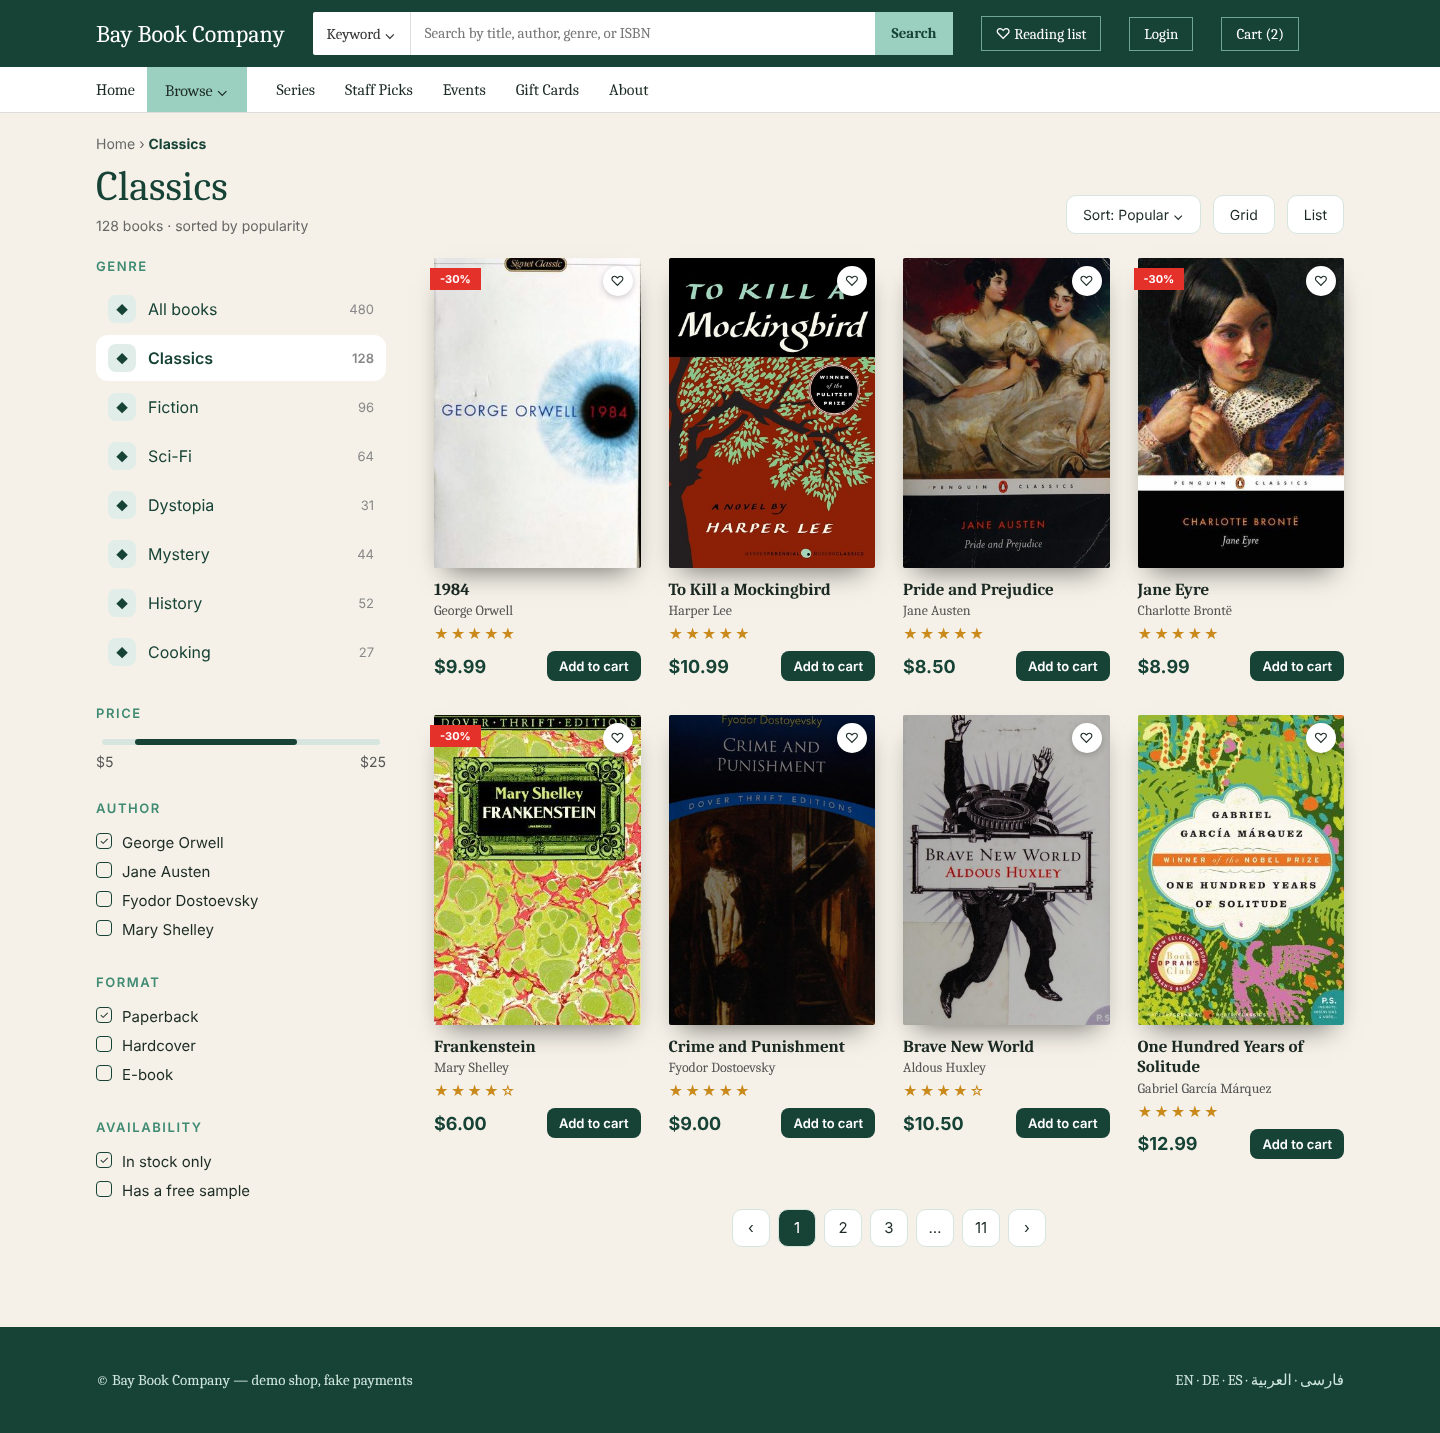
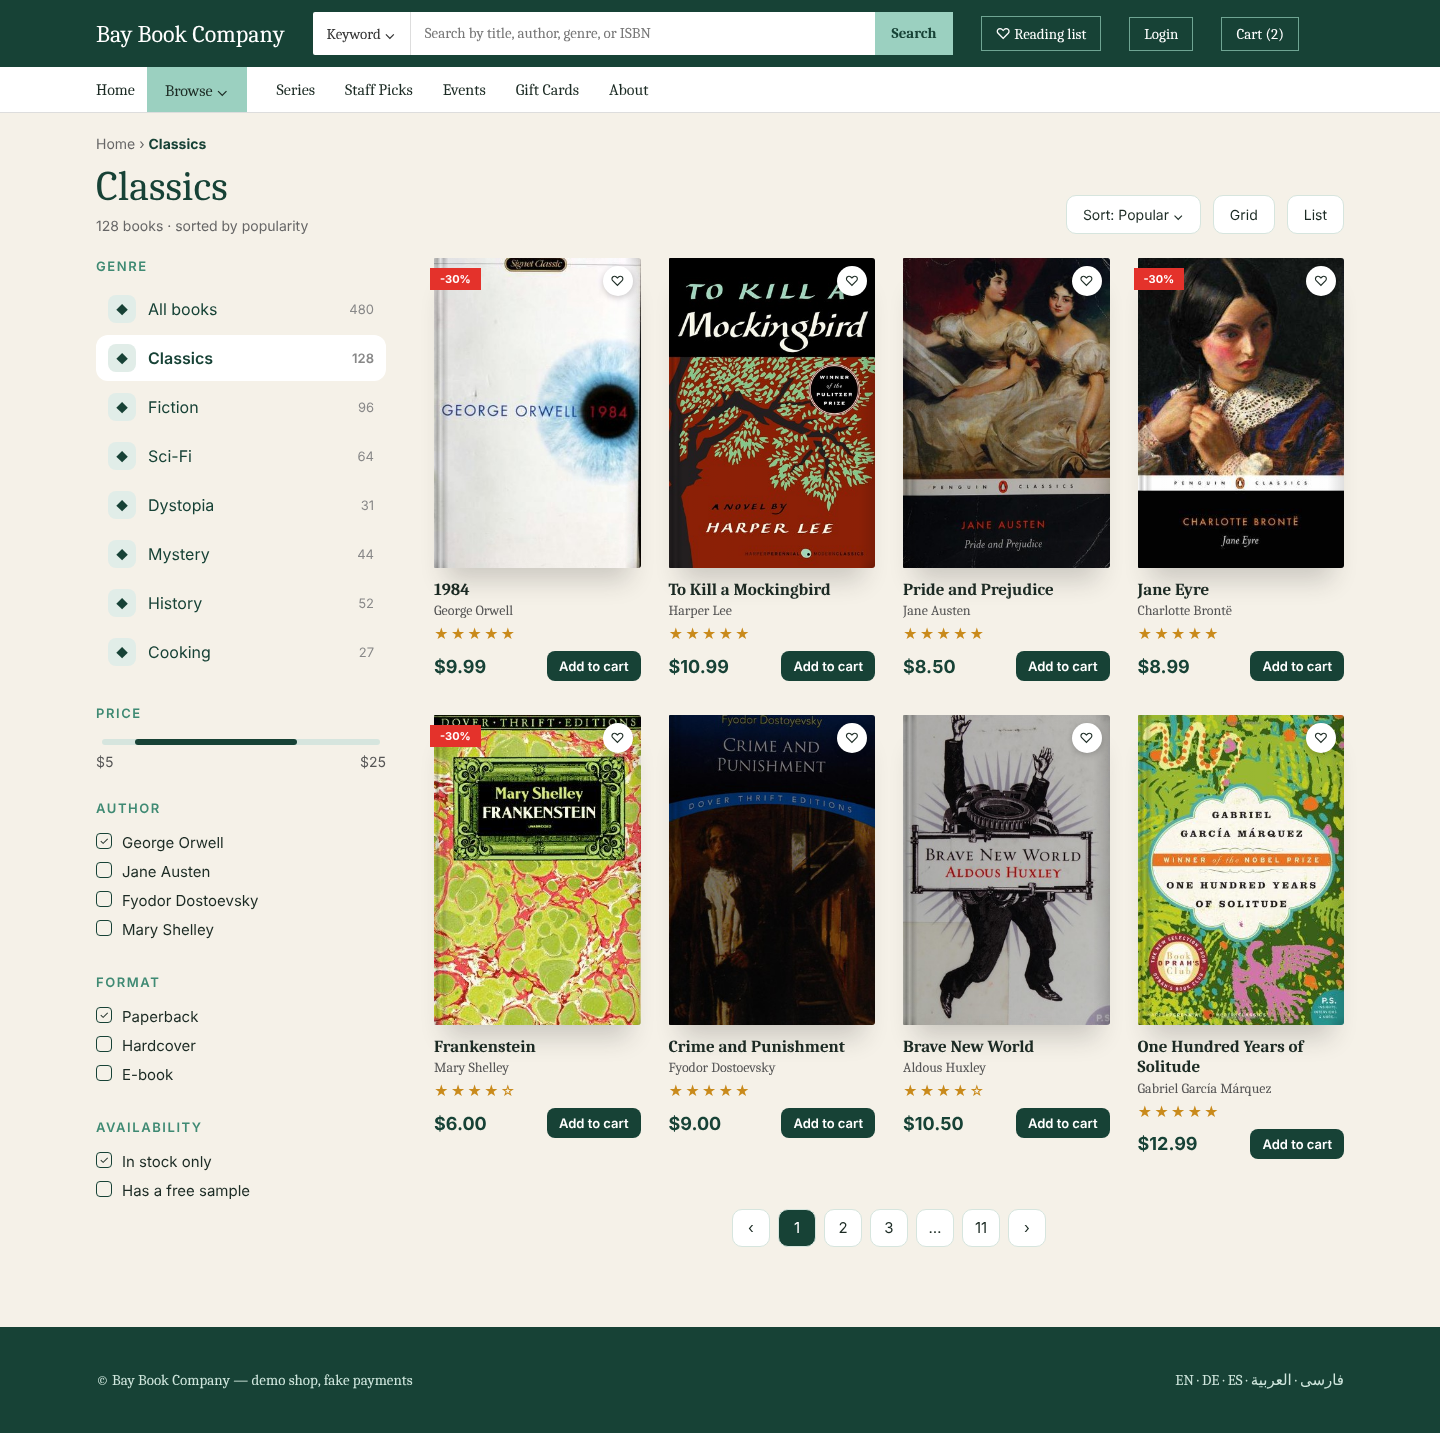
docs: add CLAUDE.md, update mockups with book-cover effect
Claude-Session: https://claude.ai/code/session_01LwWdkYFhSjRBDKzsVv4Mv5

diff --git a/CLAUDE.md b/CLAUDE.md
@@ -1,0 +1,19 @@
+# Project instructions
+
+Books demo shop (`shop-books`): `apps/api` (Express 5, Prisma, Postgres, DDD) and
+`apps/web` (Next.js, Partial Prerendering). Scope: `docs/brief.md`. Approved design: `docs/mockups/`.
+
+## Workflow
+
+- Node 24, pnpm 10. Small PRs: branch → local tests → fast-forward merge into `main` → push.
+  Do not wait for GitHub CI; the CI workflow is added last.
+- Local checks: `pnpm --filter @shop-books/api test` (embedded Postgres), `tsc --noEmit`, `pnpm build`.
+  Web build needs the API running (`pnpm dev:db`, `pnpm migrate`, `pnpm seed`, `pnpm dev` in `apps/api`).
+- Running as root: `chmod 777 apps/api/.pgdata` before tests (embedded Postgres drops privileges).
+- Use graphify to save tokens: query `graphify-out/graph.json` (`graphify query "..."`) before
+  reading many files. Rebuild with `/graphify . --update`. `graphify-out/` is not committed.
+
+## Language
+
+- Explain in Persian. Put every English word or code name inside parentheses and backticks.
+  Never start a line with an English word. Files in this repo are written in English.

diff --git a/docs/mockups/README.md b/docs/mockups/README.md
@@ -6,3 +6,8 @@ colour promo and "look inside" open book borrowed from the reference sites.
 
 `generate.mjs` writes the HTML; PNGs are rendered with Playwright (1440 px wide).
 Covers come from the Open Library covers API by ISBN and are not stored in the repo.
+
+Book-cover effect (as on goodbooks.io/books): every cover gets a soft shadow
+(`0 24px 24px -12px rgba(38,38,38,.2)`, deeper on hover) and a spine-hinge overlay
+blended with `mix-blend-mode: multiply`. Here the overlay is drawn in CSS (`.bk:after`)
+instead of copying their image.
